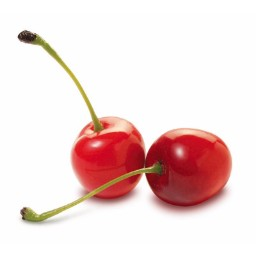
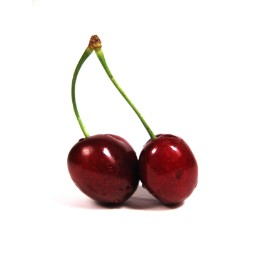
updated cherries, oranges, show() method in main scope and changed Shape and Color files

Changed region(s): [[0.0625, 0.0938, 0.9375, 0.9062]]

diff --git a/main.cpp b/main.cpp
@@ -29,7 +29,7 @@ void performTest(int componentCount,
                  const Mat &trainingDataAsMat, const Mat &testDataAsMat,
                  const Mat &trainingResponsesAsIndex, const Mat &testResponsesAsIndex);
 
-map<String, vector<String>> getAllFileNames();
+map<String, vector<String>> getAllFileNames(String folder);
 
 void readCsvDataset(vector<vector<double>> &trainingDataset, vector<vector<double>> &testDataset,
                     vector<string> &trainingResponses, vector<string> &testResponses);
@@ -104,9 +104,8 @@ void segmentImage(Mat &rgbImage, const Mat &thresholdImage) {
     }
 }
 
-map<String, vector<String>> getAllFileNames() {
+map<String, vector<String>> getAllFileNames(String folder) {
     map<String, vector<String>> filenames;
-    String folder = "fruit_dataset/";
     for (String fruit: fruits) {
         vector<String> filesForFruit;
         glob(folder + fruit, filesForFruit);
@@ -140,7 +139,7 @@ void threadFunction(vector<ImageWithClass> imagesWithClass, vector<vector<double
 }
 
 void createDatasetAsCsv() {
-    map<String, vector<String>> filenames = getAllFileNames();
+    map<String, vector<String>> filenames = getAllFileNames("fruit_dataset/");
     vector<vector<ImageWithClass>> threadDatasets;
     threadDatasets.push_back(vector<ImageWithClass>());
     threadDatasets.push_back(vector<ImageWithClass>());
@@ -426,8 +425,76 @@ void runApplication() {
 //    startCLI(pca, svm);
 }
 
+int px, delta;
+int posX(int x){
+    return x * (px + delta);
+}
+int posY(int y){
+    return y * (px + delta) + (y == 1 ? 30 : 0);
+}
+void show(){
+    map<String, vector<String>> filenames = getAllFileNames("fruit_dataset_big/");
+
+    for (int i = 0; i < fruits->length(); i++) {
+        shared_ptr<PrincipalComponentAnalysis> pca(new PrincipalComponentAnalysis());
+        for (int j = 0; j < filenames[fruits[i]].size(); ++j) {
+            String fruitFile = filenames[fruits[i]][j];
+            Mat rgbImage;
+            rgbImage = imread(fruitFile);
+
+            if (!rgbImage.data) {
+                cout << fruitFile << endl;
+                printf("No image data \n");
+            } else {
+                px = 450;
+                delta = 10;
+                Size size(px, px);
+                Mat grayImage, outputImage;
+                rgbImage.copyTo(outputImage);
+                resize(outputImage, outputImage, size);
+                imshow("1. Input Image", outputImage);
+                moveWindow("1. Input Image", posX(0), posY(0));
+
+                cvtColor(rgbImage, grayImage, COLOR_RGB2GRAY);
+                shared_ptr<Quadtree> root(new Quadtree(grayImage));
+                root->splitAndMerge();
+
+                grayImage.copyTo(outputImage);
+                resize(outputImage, outputImage, size);
+                imshow("2. Grayscale Image after Split and Merge", outputImage);
+                moveWindow("2. Grayscale Image after Split and Merge", posX(1), posY(0));
+
+                Mat thresholdImage;
+                fillHolesInThreshold(grayImage, thresholdImage);
+
+                thresholdImage.copyTo(outputImage);
+                resize(outputImage, outputImage, size);
+                imshow("3. Otsu's treshold with hole filling", outputImage);
+                moveWindow("3. Otsu's treshold with hole filling", posX(2), posY(0));
+
+                segmentImage(rgbImage, thresholdImage);
+
+                resize(rgbImage, rgbImage, size);
+                imshow("4. Segmented Image", rgbImage);
+                moveWindow("4. Segmented Image", posX(3), posY(0));
+
+                extractColorHistogram(rgbImage);
+                moveWindow("Reduced colors", posX(0) + px/2, posY(1));
+                Mat gray2;
+                cvtColor(rgbImage, gray2, COLOR_RGB2GRAY);
+                shape(gray2);
+                moveWindow("Convex Hull", posX(1) + px/2, posY(1));
+                moveWindow("Ellipse", posX(2) + px/2, posY(1));
+                if (waitKey(0) == 'a' && j != 0)
+                    j -= 2;
+            }
+        }
+    }
+}
+
 int main(int argc, char **argv) {
     createDatasetAsCsv();
     runApplication();
+    //show();
     return 0;
 }

diff --git a/feature-extraction/Shape.cpp b/feature-extraction/Shape.cpp
@@ -12,7 +12,7 @@ int area(const Mat &image) {
                 sum++;
     return sum;
 }
-
+//not used
 int perimeterAlternative(const Mat &image)
 {
     int perimeter = 0;
@@ -52,7 +52,6 @@ Mat contour(const Mat &image) {
                     image.at<uchar>(i,j-1) != 255 &&
                     image.at<uchar>(i,j+1) != 255)
                 buffer.at<uchar>(i,j) = 255;
-    //imshow("Gray 2", buffer);moveWindow("Gray 2", 0, 0);
     return buffer;
 }
 
@@ -89,7 +88,7 @@ void bresenham(Mat &image, int x1, int y1, int x2, int y2)
 }
 
 //number of pixels of the convex hull - Jarvis algorithm
-double convexHull(const Mat &edgedImage) {
+double convexHull(const Mat &edgedImage, Mat grayImage) {
     vector<vector<int>> points; //all edge points of object
     //find the point with smallest ordinate (y-coordinate)
     int minY = INT_MAX;
@@ -121,26 +120,16 @@ double convexHull(const Mat &edgedImage) {
         i++;
     }while(!(endX == hullPoints[0][1] && endY == hullPoints[0][0]));
 
-    /*
-    Mat buffer = Mat::zeros(edgedImage.size(), CV_8UC1);
-    Mat copyOwn;
-    edgedImage.copyTo(copyOwn);
-
-    for (int l = 0; l < buffer.rows; ++l)
-        for (int j = 0; j < buffer.cols; ++j)
-            buffer.at<uchar>(l,j) = 255;
-    for (int k = 0; k < hullPoints.size(); ++k) {
-        bresenham(buffer, hullPoints[k][1], hullPoints[k][0], hullPoints[(k+1)%hullPoints.size()][1], hullPoints[(k+1)%hullPoints.size()][0]);
-        bresenham(copyOwn, hullPoints[k][1], hullPoints[k][0], hullPoints[(k + 1) % hullPoints.size()][1],
+    Mat fruitWithHull;
+    grayImage.copyTo(fruitWithHull);
+    for (int k = 0; k < hullPoints.size(); ++k)
+        bresenham(fruitWithHull, hullPoints[k][1], hullPoints[k][0],
+                  hullPoints[(k + 1) % hullPoints.size()][1],
                   hullPoints[(k + 1) % hullPoints.size()][0]);
-    }
-    */
     double sum = 0;
     for (int k = 0; k < hullPoints.size(); ++k)
         sum += sqrt(pow(hullPoints[k][1] - hullPoints[(k+1)%hullPoints.size()][1], 2) + pow(hullPoints[k][0] - hullPoints[(k+1)%hullPoints.size()][0], 2));
-    //imshow("Own Func", copyOwn);moveWindow("Own Func", 450, 0);
-    //int areaVal = area(buffer);
-    //cout << "Own Algo: " << sum << " vs. " << areaVal << endl;
+    imshow("Convex Hull", fruitWithHull);
     return sum;
 }
 
@@ -179,7 +168,7 @@ vector<double> shape(const Mat &image) {
     Mat edges = contour(image);
     int perimeter = area(edges);
     results.push_back((double)perimeter);// perimeter of the object
-    double hull = convexHull(edges);
+    double hull = convexHull(edges, image);
     results.push_back(hull);
     results.push_back(areaValue/hull);
 
@@ -190,7 +179,7 @@ vector<double> shape(const Mat &image) {
                 ps.push_back(Point(j, i));
     RotatedRect ell = fitEllipse(ps);
     ellipse(image, ell, 0, 2);
-    //imshow("Ellipse", image);moveWindow("Ellipse", 450, 0);
+    imshow("Ellipse", image);
     double majorAxisLength = ell.size.height > ell.size.width ? ell.size.height : ell.size.width;
     double minorAxisLength = ell.size.height < ell.size.width ? ell.size.height : ell.size.width;
     results.push_back(majorAxisLength);

diff --git a/feature-extraction/Color.cpp b/feature-extraction/Color.cpp
@@ -4,6 +4,8 @@
 #include "Color.h"
 
 std::vector<double> extractColorHistogram(cv::Mat &image) {
+    Mat out;
+    image.copyTo(out);
     std::vector<double> histogram(64, 0);
     for (int row = 0; row < image.rows; row++) {
         for (int col = 0; col < image.cols; col++) {
@@ -12,7 +14,15 @@ std::vector<double> extractColorHistogram(cv::Mat &image) {
             double green = pixel[1] / 64;
             double red = pixel[2] / 64;
             histogram[blue * 16 + green * 4 + red]++;
+            cv::Vec3b *outPixel = out.ptr<cv::Vec3b>(row, col);
+            (*outPixel)[0] /= 64;
+            (*outPixel)[0] *= 64;
+            (*outPixel)[1] /= 64;
+            (*outPixel)[1] *= 64;
+            (*outPixel)[2] /= 64;
+            (*outPixel)[2] *= 64;
         }
     }
+    imshow("Reduced colors", out);
     return histogram;
 }

diff --git a/feature-extraction/Color.h b/feature-extraction/Color.h
@@ -5,6 +5,7 @@
 #define FRUITRECOGNITION_COLOR_H
 
 #include <opencv2/opencv.hpp>
+using namespace cv;
 
 std::vector<double> extractColorHistogram(cv::Mat &image);
 
